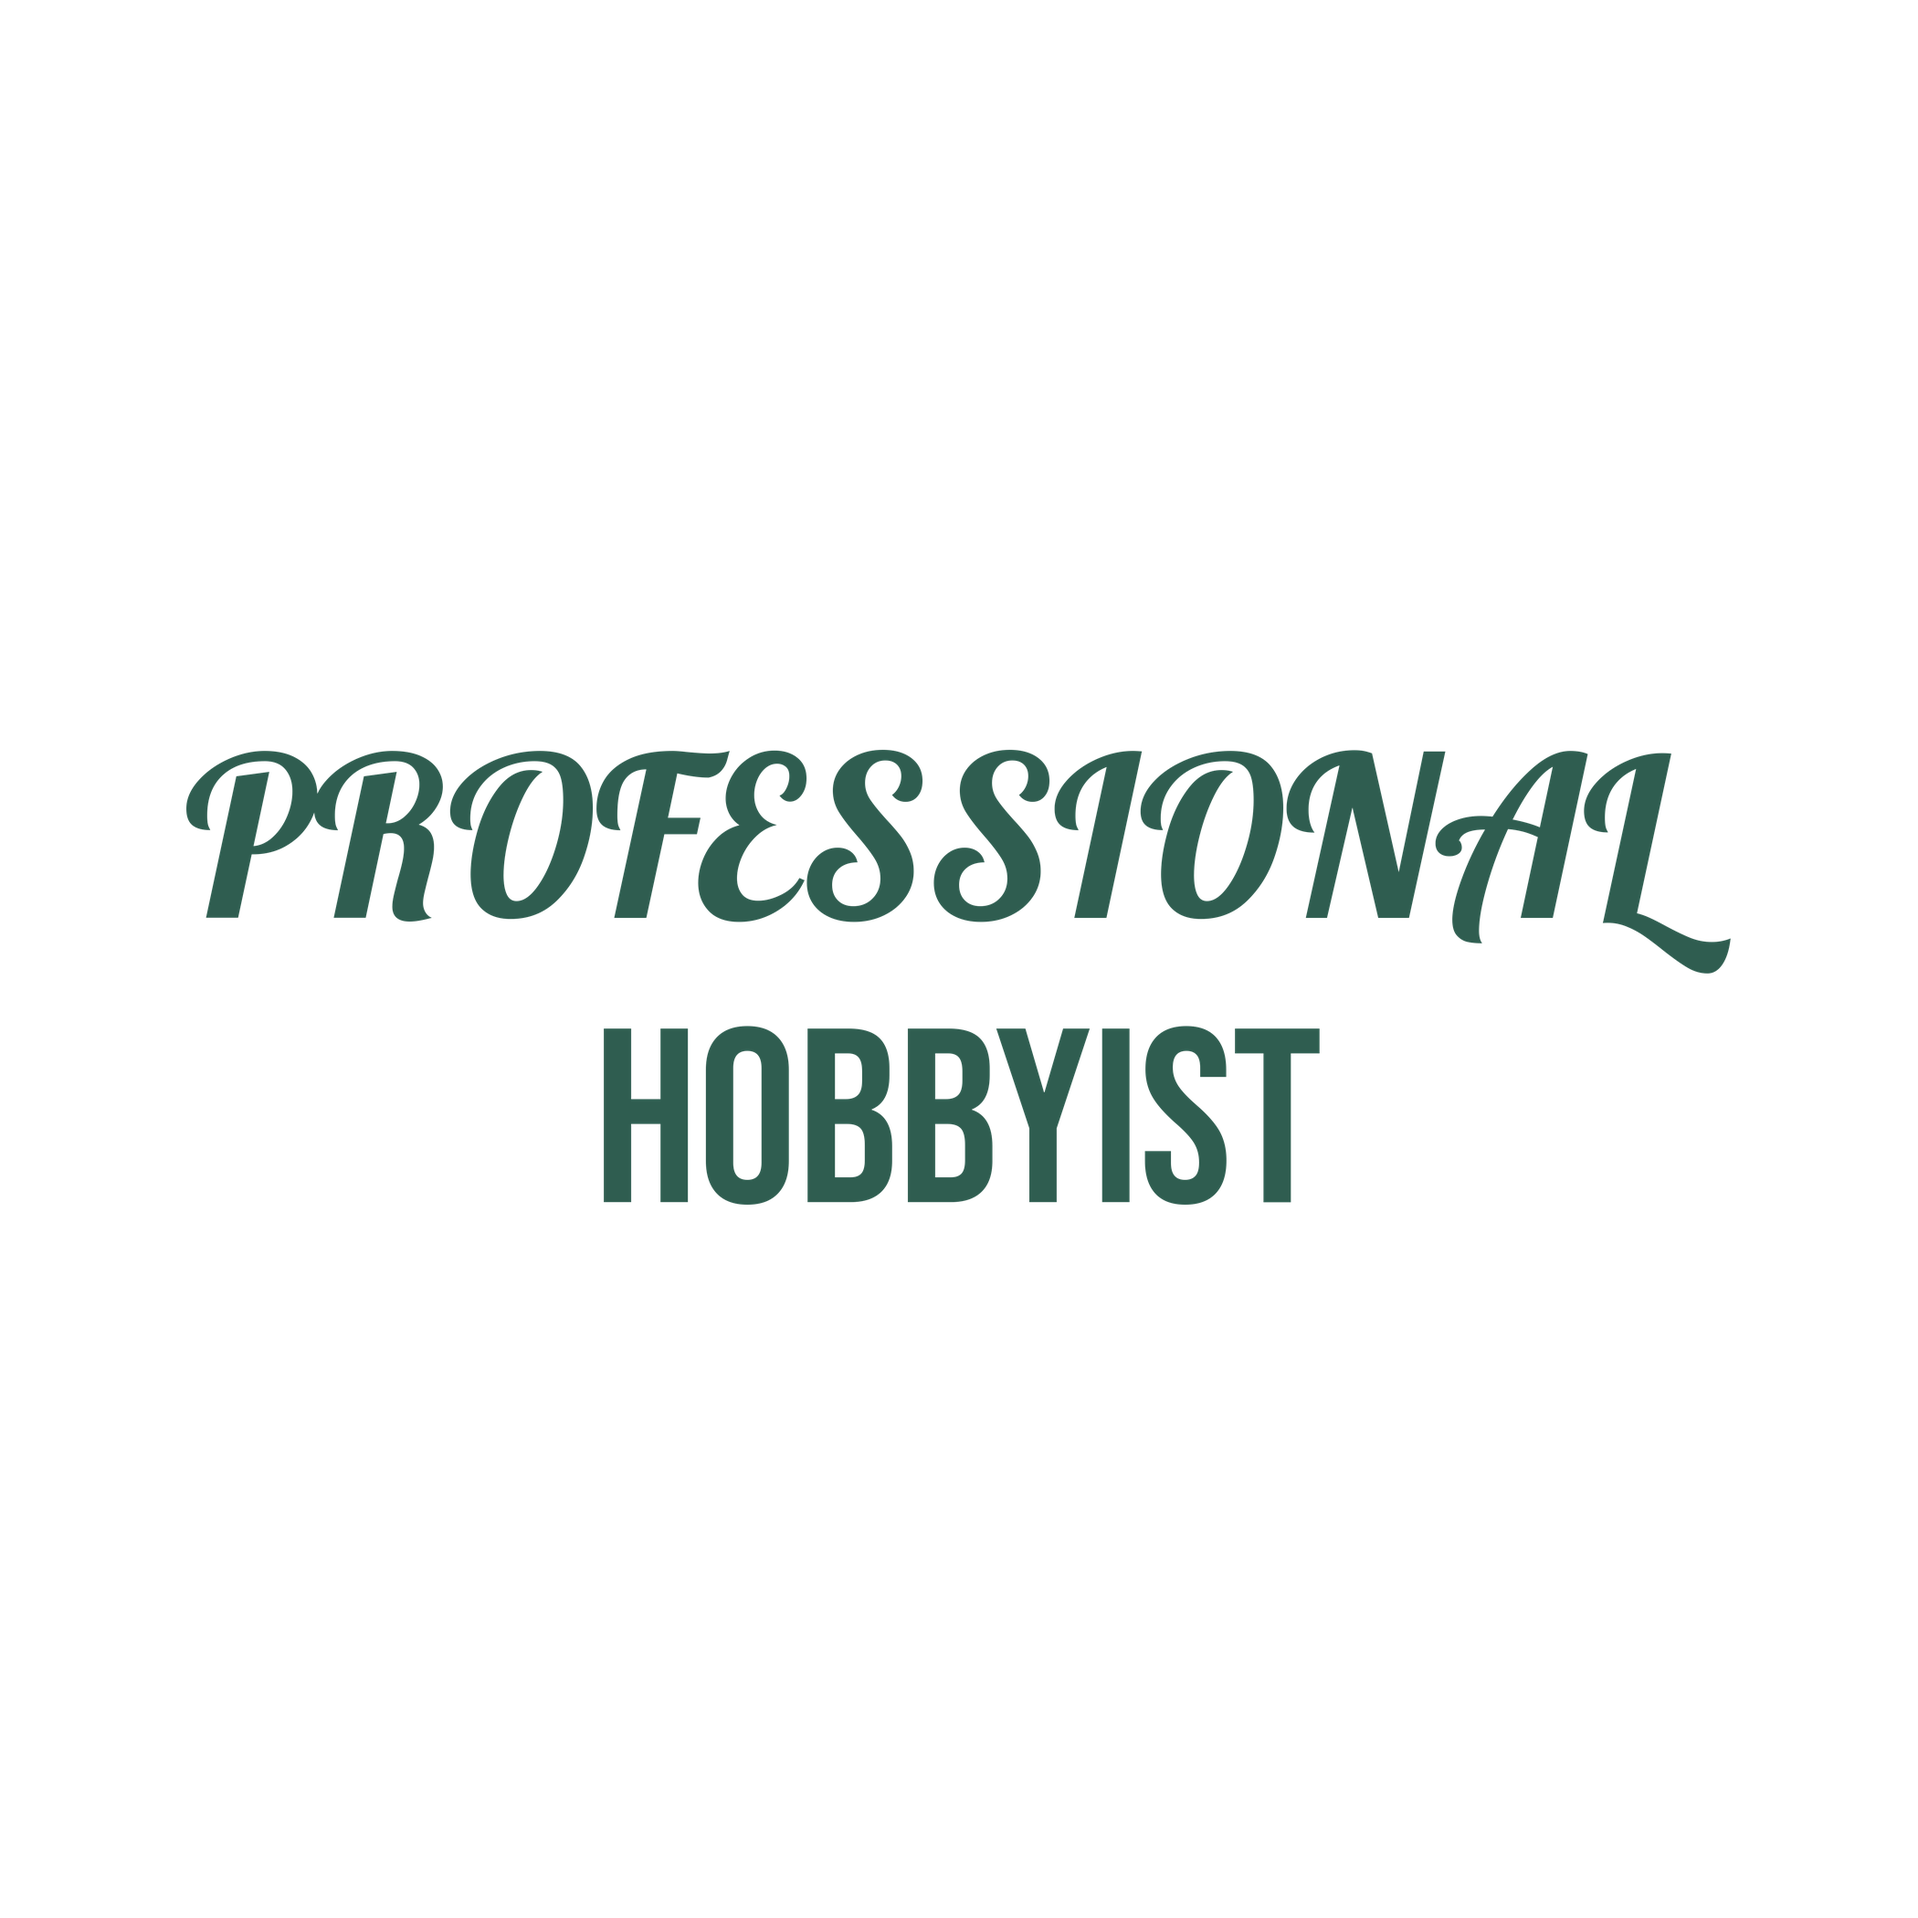
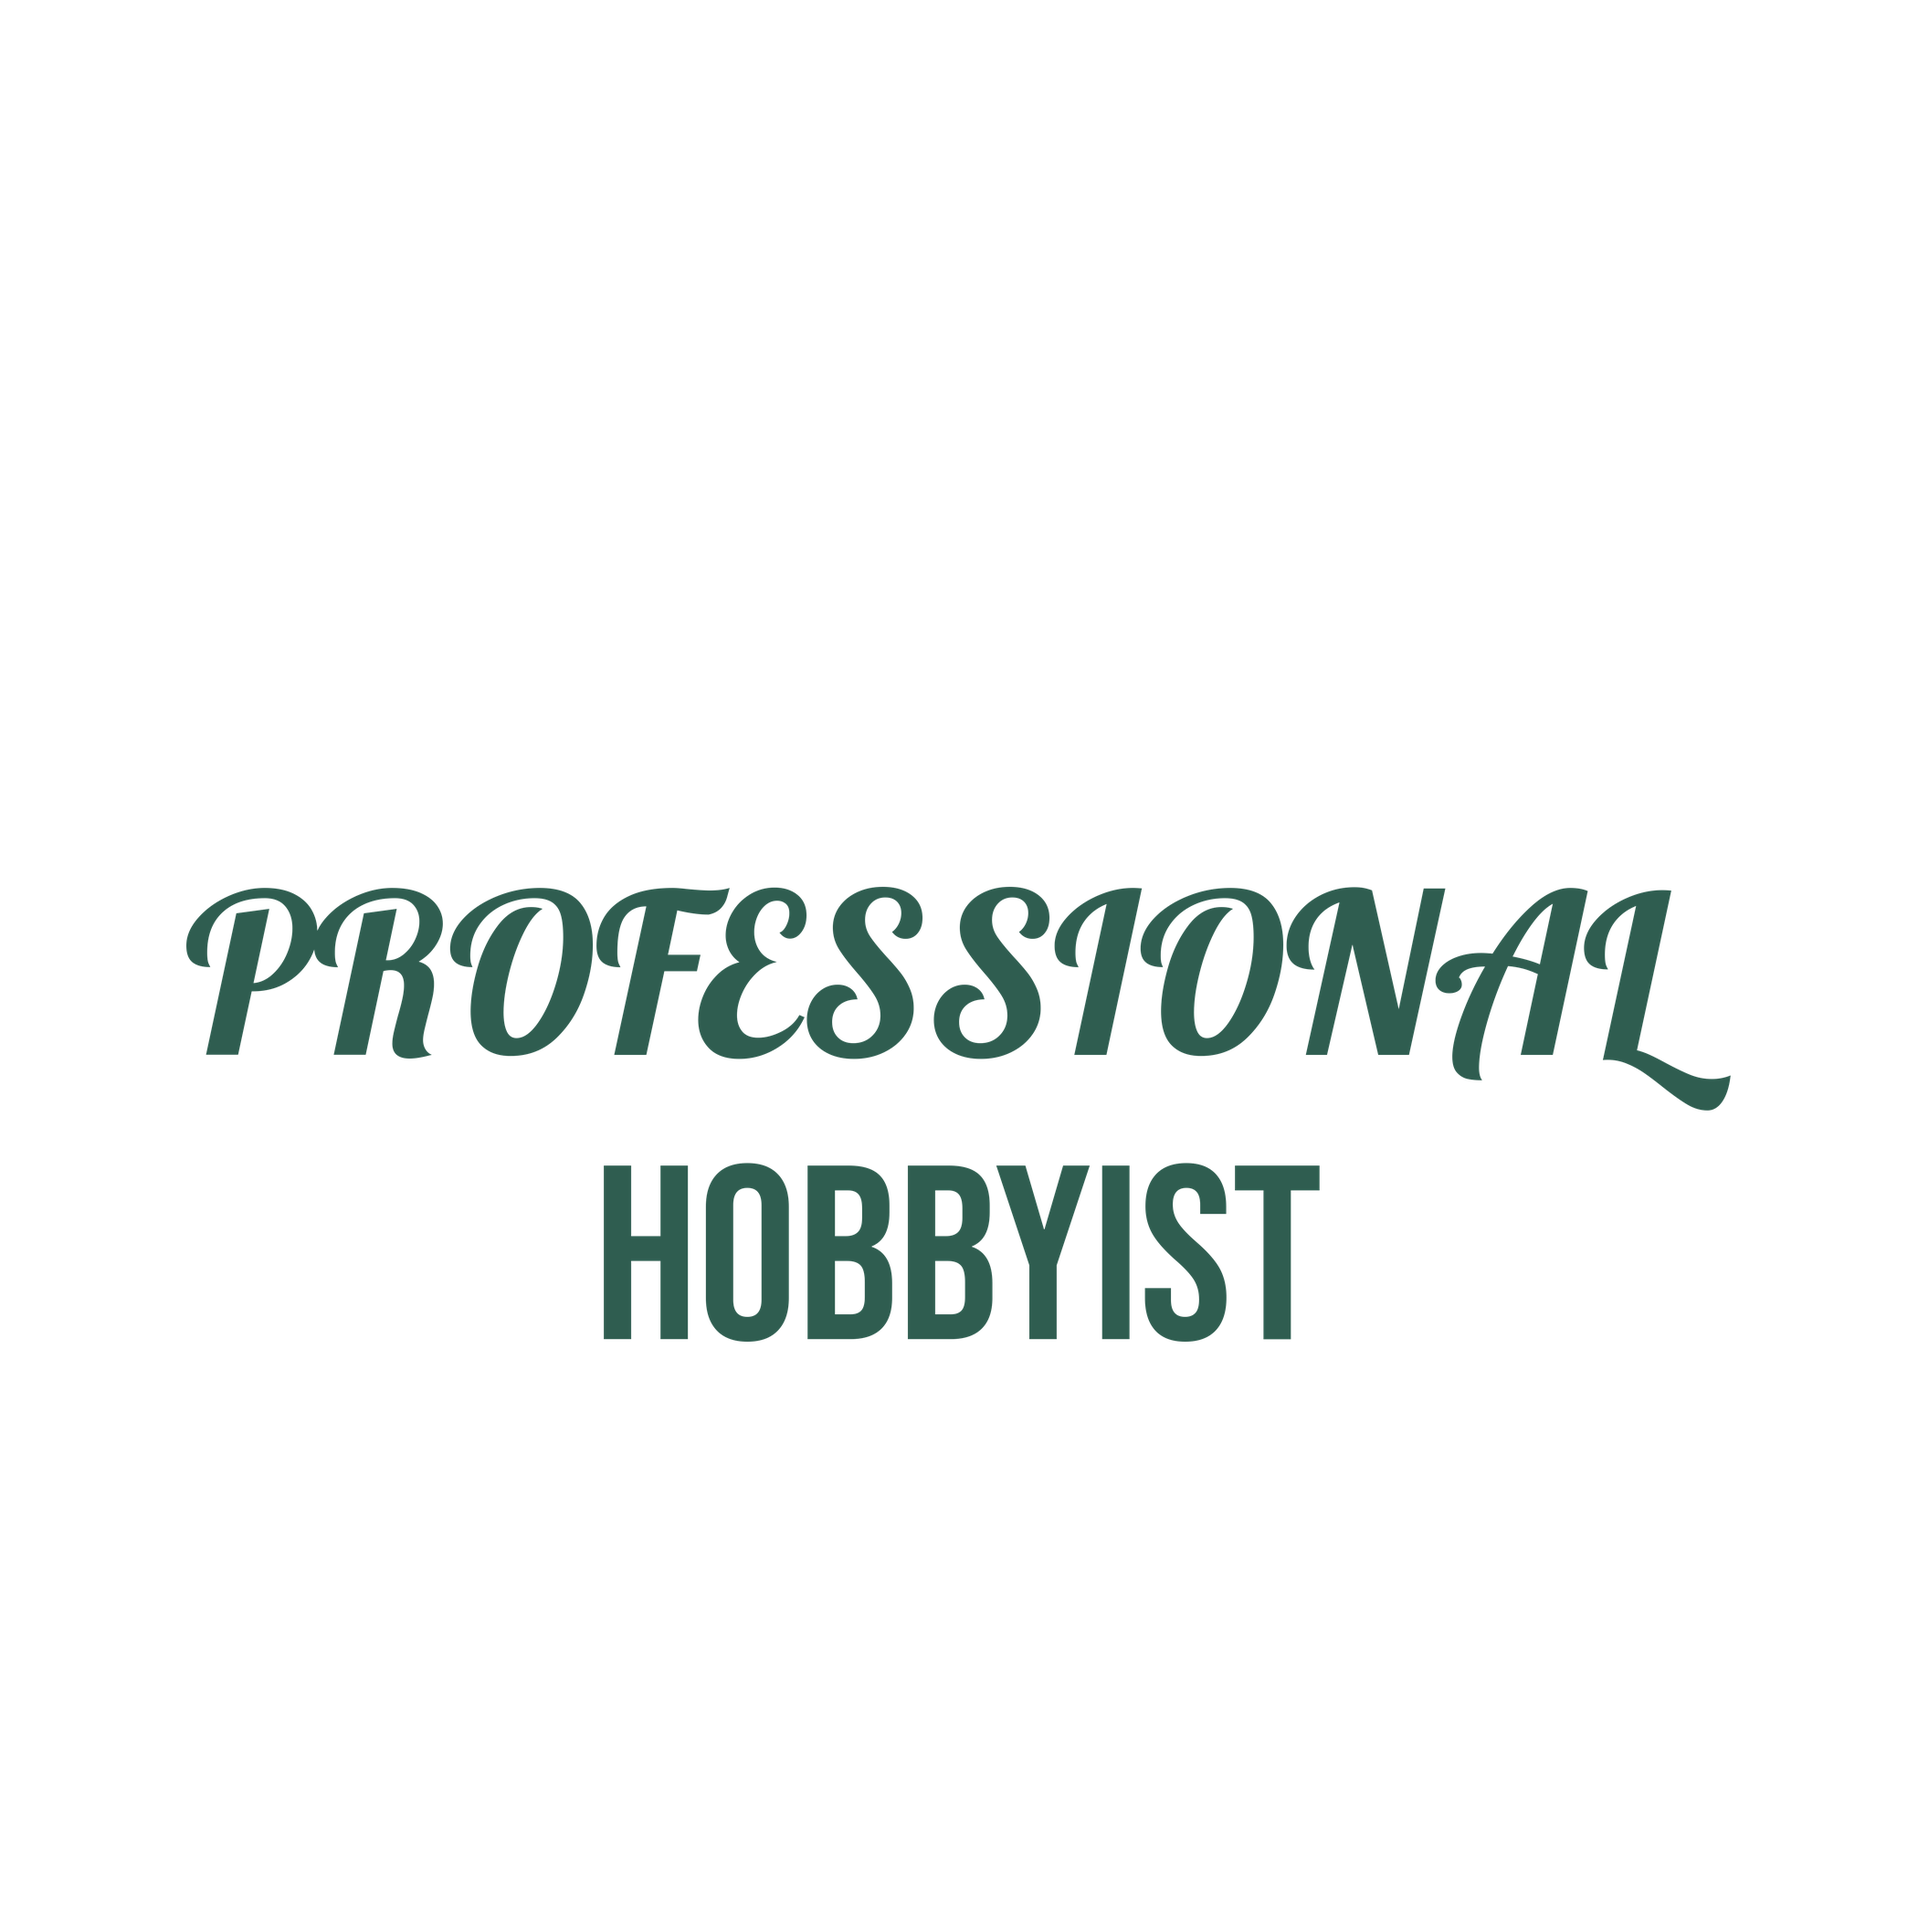
bot: dashboard actions

Changed region(s): [[0.0929, 0.3714, 0.8976, 0.7119], [0.8667, 0.5571, 0.8976, 0.5881]]

diff --git a/state/APPROVALS.md b/state/APPROVALS.md
@@ -67,12 +67,14 @@ Photo basis for every listing: Printful mockups of Daniel's original design on a
 - 2026-11-17 14:43 UTC · 💡 Rory proposed (Rory (bot), automatic): revision of d261117-02
 - 2026-11-20 16:50 UTC · ❌ Daniel skipped (Daniel, dashboard)
 
-## d261117-04 · pending · SMALL PLANS / ARE THE BEST PLANS
+## d261117-04 · rejected · SMALL PLANS / ARE THE BEST PLANS
 - 2026-11-17 14:43 UTC · 💡 Rory proposed (Rory (bot), automatic): revision of d261117-01
+- 2026-11-20 16:53 UTC · ❌ Daniel skipped (Daniel, dashboard)
 
 ## d261117-03 · pending · PROFESSIONAL / hobbyist
 - 2026-11-17 14:43 UTC · 💡 Rory proposed (Rory (bot), automatic): revision of d261116-03
 - 2026-11-20 16:50 UTC · 📐 Daniel moved or resized it (Daniel, dashboard): moved 1.5 in down
+- 2026-11-20 16:53 UTC · 📐 Daniel moved or resized it (Daniel, dashboard): moved 1 in down
 
 ## d261117-02 · replaced · FAMILY BEACH TRIP / SAME SPOT EVERY YEAR
 - 2026-11-17 14:02 UTC · 💡 Rory proposed (Rory (bot), automatic): Family travel and group trips, nostalgia for retro type
